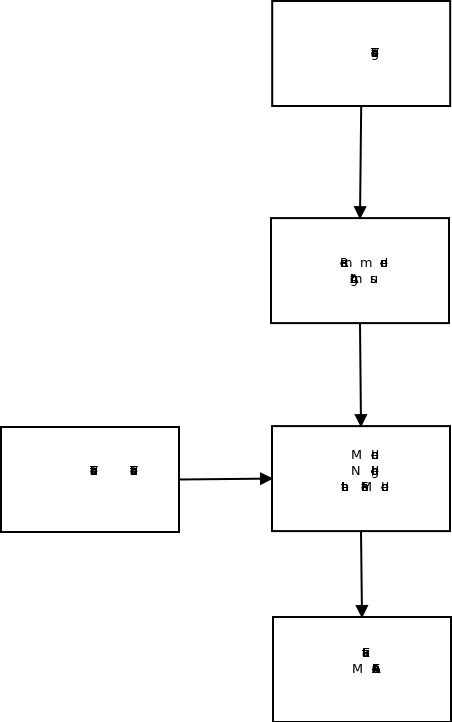
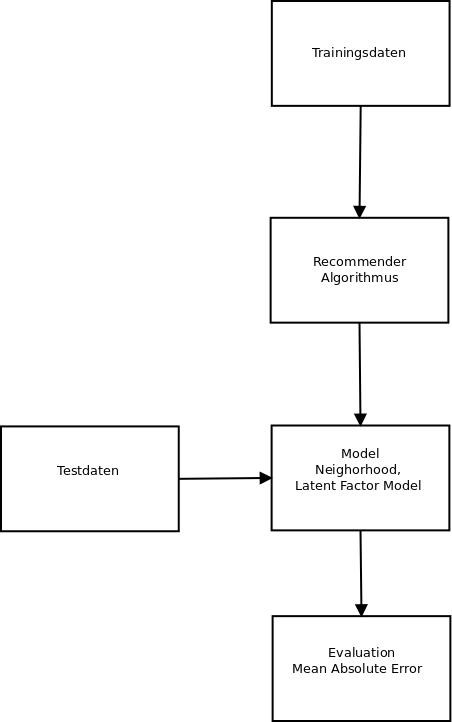
doku ueberarbeitet

diff --git a/tex/recommender.tex b/tex/recommender.tex
@@ -7,6 +7,7 @@
 \usepackage{graphicx}
 \pgfplotsset{compat=1.9}
 \usepackage{tikz}
+\usepackage{float}
 \author{Lukas Hofmaier}
 \title{Userbased Collaborative Filtering und Matrixfaktorisierung}
 \begin{document}
@@ -30,42 +31,58 @@ Die Algorithmen werden mit einer geeigneten Evaluation verglichen. Die Evaluatio
 
 \section{Recommender-Problem}
 \label{sec:problem}
+Dieser Abschnitt beschreibt was ein Recommendersystem ist und weshalb es einen Mehrwert schaffen kann.
 
 Konsumenten werden heute in vielen Bereichen mit einer un"uberschaubaren Anzahl an Kaufm"oglichkeiten konfrontiert. In einem Webshop f"ur B"ucher oder Filme ist es es f"ur den Konsumenten beispielsweise schwierig, alle Artikel im Angebot anzuschauen und aufgrund dieser Evaluation die besten Artikel auszuw"ahlen. Beim Recommender-Problem geht es darum aus einer Mengen von Artikel (Items) ein sortierte Liste mit den empfehlenswertesten Artikel f"ur einen spezifischen Kunden (User) zu erstellen. Recommender kommen vorallem dort zum Einsatz, wo pers"onlicher Geschmack bei der Bewertung von Artikel eine wichtige Rolle spielt.
 
-Ein Recommendersystem kann eine Bewertung absch"atzen (vorhersagen), die ein bestimmter User und einem bestimmtes Item gibt. Recommender berechnen die Bewertungen f"ur Items die der User noch nicht gesehen hat. Die Items mit den besten Bewertungen werden dem User empfohlen.
+Ein Recommendersystem kann eine Bewertung absch"atzen (vorhersagen), die ein bestimmter User einem bestimmten Item gibt. Recommender berechnen die Bewertungen f"ur Items, die der User noch nicht gesehen hat. Die Items mit den besten Bewertungen werden dem User empfohlen.
 
-Recommendersysteme werden vorallem im e-Commerce eingesetzt. Man kann sie aber auch dazu verwenden um unwichtige Informationen von wichtigen zu trennen.
+Recommendersysteme werden vorallem im e-Commerce eingesetzt. Man kann sie aber auch dazu verwenden um unwichtige Informationen von wichtigen zu trennen. Recommender k"onnen beispielsweise auch f"ur Information Retrieval eingesetzt werden. Sie generieren eine Liste von Dokumenten die der User noch nicht gesehen hat \cite{herlocker00}.
 
-In nachfolgenden Text wird haupts"achlich von User und Items gesprochen. 
+In nachfolgenden Text wird haupts"achlich von User und Items gesprochen. Sie sind folgendermassen definiert.
 
 \begin{description}
 \item[User] User sind die Konsumenten oder f"ur die eine Empfehlung erstellt werden soll. 
-User haben Preferencen und bewerten Items aufgrund des pers"onlichen Geschmacks. 
+User haben Preferencen und bewerten Items aufgrund des pers"onlichen Geschmacks. In einer Information Retrieval Anwendung k"onnen User auch einfach die Benutzer der Software sein.
 \item[Item] 
 Items k"onnen Artikel, Filme, B"ucher, Dokumente e.t.c sein. Items werden den Usern empfohlen.
 \end{description}
 
-Der aktive User bezeichnet den User, f"ur den Empfehlungen erstellt werden soll.
+Der aktive User bezeichnet den User, f"ur den Empfehlungen erstellt werden soll \cite{jannach11}.
 
-\subsection{Strategien}
-\label{sec:strategies}
+Es gibt zwei unterschiedliche Strategien f"ur Recommendersysteme: Content filtering und Collaborative Filtering. Dieser Report besch"aftigt sich nur mit Collaborative Filtering Methoden. 
 
-Es gibt zwei unterschiedliche Strategien f"ur Recommendersysteme: Content filtering und collaborative Filtering. 
-
-\subsubsection{Content based Filtering}
+\subsection{Content based Filtering}
 \label{sec:contentbased}
 
-Bei Content based Filtering wird zu jedem Artikel und zu jedem User ein Profile erstellt. Dieses Profile enth"alt Informationen "uber die Eigenschaften von User und Item. Beispielsweise k"onnte man alle angebotenen Filme nach ihrer Genrezugeh"origkeit bewerten. Ein Film hat beispielsweise einen Action und einen Romantikanteil. User k"onnen angeben, ob sie lieber Action oder Romantik m"ogen. Content based Filtering sucht dann Filme, die am besten mit dem Userprofile matchen. Die Schwierigkeit an Content based Filtering ist das Erfassen von Daten zu jedem Item und zu jedem User. Jemand muss jeden Artikel im Angebot nach seinem Content bewerten.
+Bei Content-based Filtering wird zu jedem Artikel und zu jedem User ein Profil erstellt. Dieses Profile enth"alt Informationen "uber die Eigenschaften von User und Item. Beispielsweise k"onnte man alle angebotenen Filme nach ihrer Genrezugeh"origkeit bewerten. Ein Film hat beispielsweise einen Action und einen Romantikanteil. User k"onnen angeben, ob sie lieber Action oder Romantik m"ogen. Content based Filtering sucht dann Filme, die am besten mit dem Userprofile matchen. Die Schwierigkeit an Content based Filtering ist das Erfassen von Daten zu jedem Item und zu jedem User. Jemand muss jeden Artikel im Angebot nach seinem Content bewerten. Von jedem User muss ein Profil erstellt werden. Der User kann seine Preferenzen oft selber eingeben. Denn meisten User ist das zu m"uhsam.
 
-\subsubsection{Collaborative Filtering}
+\subsection{Collaborative Filtering}
 \label{sec:collaborativefiltering}
 
-Collaborative Filtering ist eine weitere M"oglichkeit das Re\-commender-Prob\-lem zu l"osen. Bei Collaborative Filtering wird das Verhalten von User in der Vergangenheit analisiert. Dabei werden Bewertungen oder Transaktionen angeschaut. Der Inhalt der Artikel ist egal. Da diese Strategie unab"angig vom Inhalt ist kann sie f"ur jedes beliebige Recommendersystem eingesetzt werden. Es kann also im e-Commerce sowie auch im Information Filtering eingesetzt werden.  Es wird vielen Webshops erfolgreich eingesetzt \cite{sarwar01}. 
+Collaborative Filtering ist eine weitere M"oglichkeit das Re\-commender-Prob\-lem zu l"osen. Bei Collaborative Filtering wird das Verhalten von User in der Vergangenheit analisiert. Dabei werden Bewertungen oder Transaktionen angeschaut. Der Inhalt der Artikel ist egal. Da diese Strategie unab"angig vom Inhalt ist kann sie f"ur jedes beliebige Recommendersystem eingesetzt werden. Es kann also im e-Commerce sowie auch im Information Retrieval eingesetzt werden.  Es wird in vielen Webshops erfolgreich eingesetzt \cite{sarwar01}. 
 
-Ziel des Collaborative Filtering ist es einem User neue Items oder f"ur ein bestimmtes Item und einen bestimmten User eine Bewertung vorauszusagen. Typischweise gibt es eine Menge von $m$ Usern  $\mathnormal{U}$ und eine Menge von $ \mathnormal{I} $ Items. Jeder User $\mathnormal{u}$ hat eine Liste $\mathnormal{I_u}$ von Items, welche er bewertet hat. Diese Bewertung wird meisten als numerischer Wert in einem Intervall ausgedr"uckt. Bei Filmen hat es sich zum beispiel durchgesetzt das man eine Zahl zwischen 1 und 5 angibt, wobei die 5 eine gute Bewertung repr"asentiert. Diese Bewertungen werden von den User explizit eingegeben oder sie werden zum beispiel vom Kaufverhalten abgeleitet.
+Ziel des Collaborative Filtering ist, es einem User neue Items oder f"ur ein bestimmtes Item und einen bestimmten User eine Bewertung vorauszusagen. Typischweise gibt es eine Menge von $m$ Usern  $\mathnormal{U}$ und eine Menge von $ \mathnormal{I} $ Items. Jeder User $\mathnormal{u}$ hat eine Liste $\mathnormal{I_u}$ von Items, welche er bewertet hat. Diese Bewertung wird meisten als numerischer Wert in einem Intervall ausgedr"uckt. Bei Filmen hat es sich zum beispiel durchgesetzt das man eine Zahl zwischen 1 und 5 angibt, wobei die 5 aussagt, dass der Film dem User gefallen hat und eine 1 bedeutet, dass dem User der Film nicht gefallen hat.. Diese Bewertungen werden von den User explizit eingegeben oder sie werden zum beispiel vom Kaufverhalten abgeleitet.
 
-Man kann zwei Resultate von Collaborative Filtering unterscheiden.
+\subsubsection{Abgrenzung zu Contentbased Filtering}
+\label{sec:definitioncf}
+
+Bei Collaborative Filtering geht man davon aus, dass man die Bewertungen anderer User dazu benutzen kann, um dem aktiven User ein Item zu empfehlen, dass er noch nicht gesehen hat. Im Unterschied zu Contentbased Filtering ist der Inhalt des Items f"ur die Empfehlung nicht relevant. Das einzige was z"ahlt sind die Bewertungen anderer User.
+
+\subsubsection{Vor- und Nachteile}
+\label{sec:advandage}
+
+Gegen"uber Contentbased Filtering bietet Collaborative Filtering folgenden Vor- und Nachteile.
+\begin{description}
+\item[Kein Wissen "uber Inhalt n"otig] Es muss nicht jedes Item nach seinem Content dursucht werden. Meisten ist der Inhalt im Kontext der Empfehlung nicht brauchbar (L"ange, Kategorie, Jahr).
+\item[Usergeschmack "andert] Collaborativ Filtering passt sich automatisch an.
+\item[Intuitiv] Jeder versteht "Kunden die diesen Artikel gekauft haben, haben auch diese Artikel gekauft.
+\end{description}
+
+\subsubsection{Resultate von Collaborative Filtering}
+\label{sec:output}
+
+Man kann zwei Resultate von Collaborative Filtering unterscheiden (siehe Abbildung \ref{fig:cfprocess}.
 
 \begin{description}
 \item[Prediction] Das System berechnet eine wahrscheinliche Vorhersage $P_{u,i}$ f"ur eine Bewertung von Item i und User u
@@ -76,17 +93,22 @@ Man kann zwei Resultate von Collaborative Filtering unterscheiden.
   \centering
       \includegraphics[width=0.5\textwidth]{cf}
   \caption{Collaborative Filtering Prozess}
+  \label{fig:cfprocess}
 \end{figure}
+
+\subsubsection{Nearest-Neighbor vs. Latent Factor Models}
+\label{sec:cfmodels}
 
 Collaborative Filtering kann weiter in zwei unterschiedliche Methoden aufgeteilt werden:
 
-Bei Neighboorhood Methoden werden f"ur jeden User "ahnliche User gesucht. Es wird eine Nachbarschaft mit "ahnlichen User erstellt.
+\begin{description}
+\item[Neighboorhood Methoden] Bei Neighboorhood Methoden werden f"ur jeden User "ahnliche User gesucht. Es wird eine Nachbarschaft mit "ahnlichen User erstellt.
+"Ahnlichkeit wird aufgrund von gemeinsam bewerteten Item berechnet. Wenn zwei User f"ur mehrere Items die selben Bewertungen vergeben, sind sie sich "ahnlich. Sie haben einen "ahnlichke Einem User werden diejenigen Items empfohlen, die er noch nicht kennt und die eine hohe Bewertung von "ahnlichen Usern erhalten haben.
+M"ochte man das Rating von einem User f"ur ein bestimmtes Item ab\-sch"atz\-en, schaut man, ob User in der Nachbarschaft das Item bereits bewertet haben. Aufgrund der "Ahnlickeit und den vorhandenen Ratings berechnet man das Rating das der User f"ur dieses Item abgeben w"urde.
+\item[Latent Factor Model] Latent Factor Modelle repr"asentieren User und Items als Vektoren. Die Elemente sind Prefenzen und Eigenschaften. Diese Vektoren werden aufgrund der vorhandenen Bewertungen berechnet.
+\end{description}
 
-"Ahnlichkeit wird aufgrund von gemeinsam bewerteten Item berechnet. Wenn zwei User f"ur mehrere Items die selben Bewertungen vergeben, sind sie sich "ahnlich. Sie haben einen "ahnlichke Geschmack.
-
-Einem User werden diejenigen Items empfohlen, die er noch nicht kennt und die einge hohe Bewertung von "ahnlichen Usern erhalten haben.
-
- M"ochte man das Rating von einem User f"ur ein bestimmtes Item ab\-sch"atz\-en, schaut man, ob User in der Nachbarschaft das Item bereits bewertet haben. Aufgrund der "Ahnlickeit und den vorhandenen Ratings berechnet man das Rating das der User f"ur dieses Item abgeben w"urde.
+Dieser Report beschreibt Algorithmen f"ur beide Modele. Userbased ist eine Neighborhood Methode. Matrixfaxtorisation nutzt ein Latent Factor Model.
 
 \subsection{Herausforderungen}
 \label{sec:challenges}
@@ -94,22 +116,109 @@ Einem User werden diejenigen Items empfohlen, die er noch nicht kennt und die ei
 Bei der Implementierung von Recommendersystemen ergeben sich mehrere Herausforderungen.
 
 \begin{description}
-\item[Genauigkeit] Die Differenz der Empfehlungen die das Recommendersystem macht sollen so wenig wie m"oglich von der tats"achlichen Bewertung abweichen.
+\item[Genauigkeit] Die Differenz der Empfehlungen, die das Recommendersystem macht, soll so wenig wie m"oglich von der tats"achlichen Bewertung abweichen.
 \item[Skalierbarkeit] 
 Collaborative Filtering muss f"ur Millionen User und Items m"oglich sein. Die Technik soll also f"ur grosse Datenmengen skalieren.
-\item[Sparsity] F"ur eine grosse Menge an Items gibt es in der Regel nur eine kleine Anzahl an Items die ein User auch bewertet hat. Wenn sich keine gemeinsamen Items zwischen den Usern finden k"onnen auch keine Nachbarschaften gebildet werden.
+\item[Sparsity] F"ur eine grosse Menge an Items gibt es in der Regel nur eine kleine Anzahl an Items, die ein User auch bewertet hat. Wenn sich keine gemeinsamen Items zwischen den Usern finden k"onnen auch keine Nachbarschaften gebildet werden.
 \end{description}
 
-\section{Unpers"onliche Empfehlungtechniken}
+\section{Evaluation}
+\label{sec:evaluation}
+
+In diesem Report werden mehrere L"osungen f"ur das Recommenderproblem beschrieben. Um die Qualit"at der Methoden zu messen werden die unterschiedlichen L"osungen miteinander verglichen. Die Qualit"at wird durch die Genauigkeit der Bewertungsvorhersagen beschrieben. Man misst die Differenz zwischen vorhergesagter und tats"achlicher Bewertung.
+
+Dieser Abschnitt beschreibt eine Methode um die Qualit"at der Algorithmen zu evaluieren. In den nachfolgenden Abschnitten werden die Algorithmen mit dieser Methode evaluiert und miteinader verglichen.
+
+\subsection{Daten}
+\label{sec:data}
+
+Ein Recommenderalgorithmus ben"otigt Daten um das Model zu erstellen. F"ur die Evaluation sind ebenfalls vorhandende Bewertungen notwendig. Diese Daten liegen oft in Form einer Matrix vor. Die Zeilen rep"asentieren Items und die Kolonnen User. In den Zellen steht welche Bewertung ein User einem Item gegeben hat. Diese Matrix nennt man Ratingmatrix.
+
+Die Daten f"ur Recommender Systeme k"onnen auf zwei unterschiedliche Arten beschafft werden.
+
+\begin{description}
+\item[Explizites Feedback] Bei explizitem Feedback verl"asst man sich auf Daten die User explizit eingegen haben. Beispielsweise werden User aufgefordert, dem System ihre Preferenzen anzugeben oder man pr"asentiert den User eine Reihe von Items, die er auf einer Skala von 1 bis 5 bewerten muss. Ein Problem von explizitem Feedback ist, dass es oft zu d"unn besetzten Ratingmatrizen f"uhrt, da die User keine Zeit haben um alle verf"ugbaren Items zu bewerten.
+\item[Implizites Feedback] Implizites Feedback leitet die Bewertungen der User f"ur Items aus Beobachtungen ab. Das System beobachtet die Interaktionen, wie zum Beispiel in Vergangheit gekaufte Artikel, Browsehistory, Suchanfragen oder Klickverhalten, des User mit dem System. Oft besteht implizites Feedback nur aus boolschen Werten. Das heisst entweder ein Ereignis ist eingetreten oder nicht.
+\end{description}
+
+ Der User-based Collaborative Filtering Algorithmus berechnet zu jedem User-Paar eine "Ahnlichkeit und zu jedem User eine Nachbarschaft. Das System berechnet die "Ahnlichkeiten auftrund der Ratingmatrix. Diese gibt Auskunft dar"uber, welche Bewertung die User den Items gegeben haben.
+
+\subsubsection{MovieLens Daten}
+\label{sec:movielens}
+
+F"ur das Projekt wurden die Daten von Movielens verwendet. MovieLens wurde von vom GroupLens Projekt an der Universit"at Minnesota entwickelt. Die Daten werden mit einer Webanwendung gesammelt. User k"onnen Filme bewerten und MovieLens gibt den User darauf eine Top-N Empfehlungsliste. Die Daten k"onnen von http://www.grouplens.org/node/12 heruntergeladen werden. 
+
+Das Datenset enth"alt die Bewertung von 943 User und 1682 Items. Die Daten sind in Kolonnen strukturiert. Die erste und zweite Kolonne enth"alt User und Item ID. Die dritte Kolonne enth"alt ein Zahl zwischen 1 und 5. Die repr"asentiert die Bewertung. Und in der vierten Kolonne ist ein Timestamp der Bewertung. Das Movielens Datenset enth"alt insgesamt 100000 Bewertungen. Abbildlung \ref{fig:movielens} zeigt einen Auschnitt der rohen Daten.
+
+\begin{figure}
+\centering
+\begin{verbatim}
+1	1	5	874965758
+1	2	3	876893171
+1	3	4	878542960
+1	4	3	876893119
+1	5	3	889751712
+\end{verbatim}
+\caption{Ausschnitt aus MovieLens Datensatz}
+\label{fig:movielens}
+\end{figure}
+
+F"ur den Userbased Collaborative Filter Algorithmus wurden die Daten in das CSV-Format transfomiert. Die Daten wurden mit dem Pythonskript \verb|tocsv| transformiert. Das CSV-Format eignet sich bessser, weil vorhandene Libraries f"ur das Einlesen der Daten genutzt werden k"onnen. In diesem Projekt wurden die Daten mit Paket \verb|cassava| eingelesen.
+
+F"ur die Matrixfaktorisierung wurden die Daten in als Matrix abgespeichert. So muss das Programm nicht bei jedem Testlauf die Transformation von 100000 Bewertungen in eine Ratingmatrix vornehmen.
+
+\subsection{Vorgehen}
+\label{sec:procedure}
+
+Zur Evaluierung der Algorithmnen wurde die sogenannte Kreuzvalidierung angewendet. Die Evaluierung wird in zwei Phasen aufgeteilt. In Abbildung \ref{fig:crossvalidation} stellt diese grafisch dar.
+\begin{enumerate}
+\item Trainingsphase
+\item Testphase
+\end{enumerate}
+
+Um Evaluationsmetriken zu bestimmen, werden die gegeben Daten ebenfalls in ein Trainings und ein Testset aufgeteilt. In diesem Projekt wurde das Set in 80000 Bewertungen f"ur die Trainingsphase und 20000 Bewertungen f"ur die Evaluierung aufgeteilt.
+
+In der Trainingsphase berechnet das Recommendersystem das Model. Im Falle des Userbased Collaborative Filtering werden f"ur alle User die "Ahnlichkeiten zu anderen User berechnet. Bei der Matrixfaktorisierung werden in der Trainingsphase die Featurevektoren berechnet. 
+
+In diesem Projekt wurde das Set in 80000 Bewertungen f"ur die Trainingsphase und 20000 Bewertungen f"ur die Evaluierung aufgeteilt.
+
+\begin{figure}
+  \centering
+      \includegraphics[width=0.5\textwidth]{evaluation}
+  \caption{Kreuzvalidierung}
+  \label{fig:crossvalidation}
+\end{figure}
+
+Das Model der Trainingsphase wird in der Testphase verwendet. Mit dem berechneten Model muss der Recommender zu jeder Bewertung des Testset eine Bewertung vorhersagen ohne die tats"achliche Bewertung zu kenne. Diese Vorhersage vergleicht man mit dem tats"achlichen Bewertung aus dem Testset. Die Abweichungen vom tats"achlichen Wert nennt man Residuen. 
+
+\subsection{Evaluationsmetrik}
+\label{sec:evaluationmetrik}
+
+Die Qualit"at des Recommendersystem kann mit Evaluationsmetriken "uberpr"uft werden. Evaluationsmetriken geben Auskunft dar"uber wie gut das Recommendersystem ist. Idealerweise kann ein Recommendersystem die Bewertung f"ur einen User und ein Item vorhersagen. Statistische Genauigkeitsmetriken geben an wie weit entfernt die Vorhersage vom tats"achlichen Wert ist. 
+
+Es gibt verschieden Evaluationsmetriken. In diesem Projekt wurde der Mean Absolute Error als Metrik verwendet. MAE vergleicht die tats"achliche Bewertung eines User f"ur ein Item mit der Bewertung, die der Recommender berechnet hat. Man bildet die Differenz von Vorhersage und tats"achlicher Bewertung. Von der Differenz wird der Betrag berechnet. Schliesslich bestimmt man die mittlere Abweichung, indem man durch Anzahl Bewertungen $N$ im Testset teilt 
+
+Der MAE ist wie folgt definiert \cite{sarwar01}:
+
+\begin{equation}
+  \label{eq:mae}
+  MAE = \frac{\sum_{i+1}^N | p_i-q_i | }{N}
+\end{equation}
+
+Je tiefer der MAE, desto besser ist die Genauigkeit des Recommender.
+
+Root Mean Squared Error und Correlation sind zwei weitere Metriken.
+
+\section{Unpers"onliche Empfehlungstechniken}
 \label{sec:simple}
 
-Dieser Abschnitt beschreibt einfache, alternative, M"oglichkeiten relative gute Empfehlungen zu generieren. Diese Techniken werden sp"ater bei der Evaluation mit User based Collaborativ Filtering und Matrixfaktorisierung verglichen. So ist einfach ersichtlich, ob die Collaborative Filtering Algorithmen einen qualitativen Vorteil bringen.
+Dieser Abschnitt beschreibt einfache, alternative, M"oglichkeiten relative gute Empfehlungen zu generieren. Diese Techniken werden in den nachfolgenden Abschnitten als Baselinealgorithmus verwendet um zu "uberpr"ufen, ob das Recommendersystem eine h"ohere Genauigkeit erzielt. So ist einfach ersichtlich, ob die Collaborative Filtering Algorithmen einen qualitativen Vorteil bringen.
 
 Um einem User Items zu empfehlen werden oft einfache Statistiken berechnet. Diese Methoden sind unpers"onlich. Das heisst die Top-N Empfehlungen sind nicht vom pers"onlichem Geschmack von $u$ abh"angig. Jeder User erh"alt die selben Empfehlungen. 
 
 Diese Technik wird in vielen Bereichen angewendet. Restaurantf"uhrer oder Filmkritikwebseiten erstellen oft Ranglisten, welche Restaurants oder Filme von allen Usern im Durchschnitt am besten bewertet werden. Items mit den h"ochsten Durchschnittswerten, werden dem User empfohlen.
 
-Die einfachste Methode eine unbekannte Bewertung abzusch"atzen ist den Durschnitt aller Bewertungen zu berechnen.
+Die einfachste Methode eine unbekannte Bewertung abzusch"atzen, ist den Durschnitt aller Bewertungen zu berechnen.
 
 \begin{equation}
   \label{eq:avg}
@@ -187,67 +296,8 @@ In Diagramm \ref{fig:maebaselines} werden die verschiedenen, unpers"onlichen Rec
   \label{fig:maebaselines}
 \end{figure}
 
-\section{Evaluation}
-\label{sec:evaluation}
 
-Dieser Abschnitt beschreibt wie die Qualit"at der Algorithmen evaluiert wurde.
-
-\subsection{Daten}
-\label{sec:data}
-
-Ein Recommenderalgorithmus ben"otigt Daten um das Model zu erstellen. Diese Daten liegen oft in Form einer Matrix vor. Die Zeilen rep"asentieren Items und die Kolonnen User. In den Zellen steht welche Bewertung ein User einem Item gegeben hat. Diese Matrix nennt man Ratingmatrix.
-
-Die Daten f"ur Recommender Systeme k"onnen auf zwei unterschiedliche Arten beschafft werden.
-
-\begin{description}
-\item[Explizites Feedback] Bei explizitem Feedback verl"asst man sich auf Daten die User explizit eingegen haben. Beispielsweise werden User aufgefordert, dem System ihre Preferenzen anzugeben oder man pr"asentiert den User eine Reihe von Items, die er auf einer Skala von 1 bis 5 bewerten muss. Ein Problem von explizitem Feedback ist, dass es oft zu d"unn besetzten Ratingmatrizen f"uhrt, da die User keine Zeit haben um alle verf"ugbaren Items zu bewerten.
-\item[Implizites Feedback] Implizites Feedback leitet die Bewertungen der User f"ur Items aus Beobachtungen ab. Das System beobachtet die Interaktionen, wie zum Beispiel in Vergangheit gekaufte Artikel, Browsehistory, Suchanfragen oder Klickverhalten, des User mit dem System. Oft besteht implizites Feedback nur aus boolschen Werten. Das heisst entweder ein Ereignis ist eingetreten oder nicht.
-\end{description}
-
- Der User-based Collaborative Filtering Algorithmus berechnet zu jedem User-Paar eine "Ahnlichkeit und zu jedem User eine Nachbarschaft. Das System berechnet die "Ahnlichkeiten auftrund der Ratingmatrix. Diese gibt Auskunft dar"uber, welche Bewertung die User den Items gegeben haben.
-
-F"ur das Projekt wurden die Daten von Movielens verwendet. MovieLens wurde von vom GroupLens Projekt an der Universit"at Minnesota entwickelt. Die Daten werden mit einer Webanwendung gesammelt. User k"onnen Filme bewerten und MovieLens gibt den User darauf eine Top-N Empfehlungsliste. Die Daten k"onnen von http://www.grouplens.org/node/12 heruntergeladen werden. 
-
-Das Datenset enth"alt die Bewertung von 943 User und 1682 Items.  Daten sind in Kolonnen strukturiert. Erste Kolonne user id, zweite item.id, dritte rating, vierte timestamp. Es enth"alt insgesamt 100000 Bewertungen. In diesem Projekt wurde das Set in 80000 Bewertungen f"ur die Trainingsphase und 20000 Bewertungen f"ur die Evaluierung aufgeteilt.
-
-F"ur den Userbased Collaborative Filter Algorithmus wurden die Daten in das CSV-Format transfomiert. Das hat den Vorteil, dass man sie leichter einlesen kann.
-
-F"ur die Matrixfaktorisierung wurden die Daten in als Matrix abgespeichert. So muss das Programm nicht bei jedem Testlauf die Transformation von 100000 Bewertungen in eine Ratingmatrix vornehmen.
-
-Die Transformationen wurden mit einem Pythonscript vorgenommen.
-
-\subsection{Vorgehen}
-\label{sec:procedure}
-
-Um Evaluationsmetriken zu bestimmen, werden die gegeben Daten in ein Trainings und ein Testset aufgeteilt. Das Model des Recommendersystem wird berechnet. Im Fall des User-based Collaborative Filtering werden f"ur alle User die "Ahnlichkeiten zu anderen User berechnet.
-
-\begin{figure}
-  \centering
-      \includegraphics[width=0.5\textwidth]{evaluation}
-  \caption{Collaborative Filtering Prozess}
-\end{figure}
-
-Die Bewertungen im Testset beinhalten den User $u$, das Item $i$ und die Bewertung pro Zeile. Mit dem berechneten Model muss der Recommender zu jedem $u$-$i$ Paar eine Bewertung vorhersagen. Diese Vorhersage vergleicht man mit dem tats"achlichen Bewertung aus dem Testset.
-
-\subsection{Evaluationsmetrik}
-\label{sec:evaluationmetrik}
-
-Die Qualit"at des Recommendersystem kann mit Evaluationsmetriken "uberpr"uft werden. Evaluationsmetriken geben Auskunft dar"uber wie gut das Recommendersystem ist. Idealerweise kann ein Recommendersystem die Bewertung f"ur einen User und ein Item vorhersagen. Statistische Genauigkeitsmetriken geben an wie weit entfernt die Vorhersage vom tats"achlichen Wert ist. 
-
-Es gibt verschieden Evaluationsmetriken. In diesem Projekt wurde der Mean Absolute Error als Metrik verwendet. MAE vergleicht die tats"achliche Bewertung eines User f"ur ein Item mit der Bewertung, die der Recommender berechnet hat. Man bildet die Differenz von Vorhersage und tats"achlicher Bewertung. Von der Differenz wird der Betrag berechnet. Schliesslich bestimmt man die mittlere Abweichung, indem man durch Anzahl Bewertungen $N$ im Testset teilt 
-
-Der MAE ist wie folgt definiert \cite{sarwar01}:
-
-\begin{equation}
-  \label{eq:mae}
-  MAE = \frac{\sum_{i+1}^N | p_i-q_i | }{N}
-\end{equation}
-
-Je tiefer der MAE, desto besser ist die Genauigkeit des Recommender.
-
-Root Mean Squared Error und Correlation sind zwei weitere Metriken.
-
-\section{User-based collaborative filtering}
+\section{Userbased collaborative filtering}
 
 Die Technik user-based collaborative filtering ist auch als k-NN (nearest-neighbor) oder Memory-based collaborative filtering bekannt. Der GroupLens Usenet Articel Recommender verwendete als einer der ersten Recommender Systeme User-based collaborative Filtering. Ringo Musice Recommender und der Bell Core video Recommender verwenden auch user-based CF .
 
